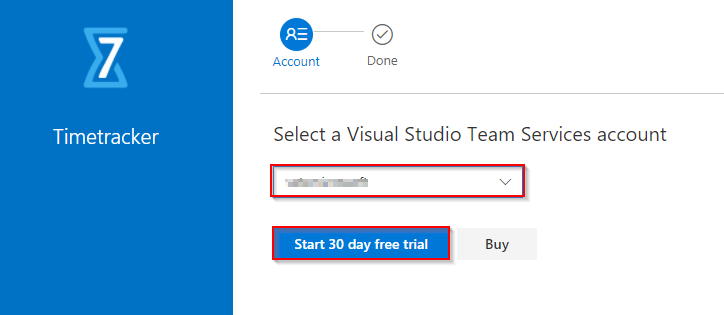
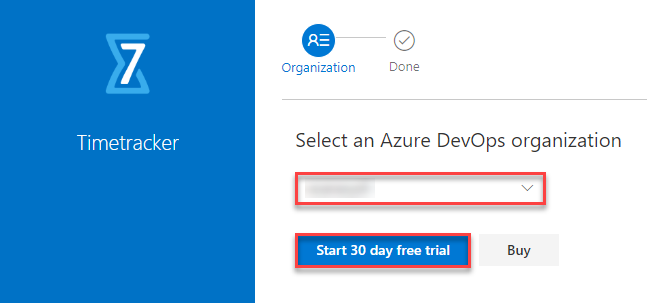
updated 7pace timetracker lab

diff --git a/labs/vstsextend/timetracker/readme.md b/labs/vstsextend/timetracker/readme.md
@@ -4,16 +4,15 @@ layout: page
 sidebar: vsts2
 permalink: /labs/vstsextend/timetracker/
 folder: /labs/vstsextend/timetracker/
-updated: blank
 ---
 ## Overview 
-**7pace Timetracker** is a professional full-feature time recording and management solution that seamlessly integrates with Visual Studio Team Services (VSTS). Designed for software engineers, by software engineers, Timetracker exists within the same environment in which you work, allowing you to quickly and easily plan, estimate, enter, and track time directly on work items, and then use the resulting data to improve your productivity. This integration between work done and time tracked lets you know exactly how much time you’re spending on your work items, leading to better estimation and more efficient time management. The entire development team can see team members' individual pace, remaining time, and decreasing burndown.
+**7pace Timetracker** is a professional full-feature time recording and management solution that seamlessly integrates with Azure DevOps. Designed for software engineers, by software engineers, Timetracker exists within the same environment in which you work, allowing you to quickly and easily plan, estimate, enter, and track time directly on work items, and then use the resulting data to improve your productivity. This integration between work done and time tracked lets you know exactly how much time you’re spending on your work items, leading to better estimation and more efficient time management. The entire development team can see team members' individual pace, remaining time, and decreasing burndown.
 
 **Timetracker** also offers an optional desktop Windows Client that can be installed on your local system. In Timetracker 4.0, time tracking moved to the server with a built-in Web Client that allows you to start tracking right from any work item. You can use multiple desktops, run the Windows Client everywhere or just open your browser; you will see a synced time interface that you can control from wherever you are.
 
 ## What’s covered in this lab
 
-In this tutorial, you will see how you can easily add time from various locations within Timetracker and VSTS and then use that time data to increase your knowledge and productivity:
+In this tutorial, you will see how you can easily add time from various locations within Timetracker and Azure DevOps and then use that time data to increase your knowledge and productivity:
 1.	How to Record Your Time on the Work Item Form (Details tab **Start Tracking** and Time tab **Add Time** buttons)
 1.	How to Record Your Time with Timetracker’s Windows and Web Clients
 1.	How to Record Your Time with Timetracker’s **Monthly**, **Timesheet** (Add **New Time** Timesheet Cells and List Editor) and **Times Explorer** Pages
@@ -21,43 +20,43 @@ In this tutorial, you will see how you can easily add time from various location
 1.	How to View the Health of Your Sprint on Timetracker’s **Iterations** Page.
 
 ## Prerequisites for the lab
-You will need a **Visual Studio Team Services Account**. If you do not have one, you can sign up for free [here](https://www.visualstudio.com/products/visual-studio-team-services-vs)
+You will need an **Azure DevOps Organization**. If you do not have one, you can sign up for free [here](https://go.microsoft.com/fwlink/?LinkId=2014881)
+
 ## Setting up the environment
 
-This section helps you with the steps to enable **7pace Timetracker** for VSTS web server on your Visual Studio Team Services account and (optional) install the Windows Client to your local system. 
+This section helps you with the steps to enable **7pace Timetracker** for your Azure DevOps Organization and (optional) install the Windows Client to your local system. 
 
-1. Login to https://www.visualstudio.com/ using your valid Microsoft Visual Studio Team Services account. 
-1. Click [here](https://marketplace.visualstudio.com/items?itemName=Berichthaus.TfsTimetracker) to navigate to the **Timetracker** extension in VSTS Marketplace. Or Search for **Timetracker** in VSTS Marketplace and click on the **Timetracker** icon.
+1. Login to your valid Azure DevOps Organization account. 
+1. Click [here](https://marketplace.visualstudio.com/items?itemName=7pace.TfsTimetracker) to navigate to the **Timetracker** extension in Azure DevOps Marketplace. Or Search for **Timetracker** in Azure DevOps Marketplace and click on the **Timetracker** icon.
 
    ![Timetrackericon](images/TimetrackerIcon.png)
 
 1. On the Timetracker application page, click **Get**.
 
-1. Select the drop-down in **Select a Visual Studio Team Services account** field and select your Team Services account, then select **Start 30 day free trial**. With this Timetracker extension will be installed to your VSTS account.
+1. Select the drop-down in **Select an Azure DevOps organization** field and select your Azure DevOps Organization, then select **Start 30 day free trial**. With this Timetracker extension will be installed to your VSTS account.
 
    ![selectvstsaccount](images/selectvstsaccount.png)
 
-1. Once the Timetracker server component is enabled on your account, ensure that the **Time** menu selection appears on the main menu bar of Team Services.
+1. Once the Timetracker server component is enabled on your account, ensure that the **Time** menu selection appears on the main menu bar of Azure DevOps Project.
 
-1. Once the above steps have been completed, you have the option of downloading the Windows Client. From the main menu bar, select **Time -> Apps**. Click the **Downloads** link on **Desktop Apps**  or at the top-right corner of the page.
+   ![timetrackerimage](images/timetrackeroption.png)
+
+1. Once the above steps have been completed, you have the option of downloading the Windows Client. Click **Yes, I agree** to accept the Privacy Terms. From the main menu bar, select **Time -> Apps**. Click the **Download client** link within **7pace Timetracker Windows client**.
 
      ![DownloadClient1](images/DownloadClient1.png)
 
-    ![DownloadClient2](images/DownloadClient2.png)
+1. (Optional) Pair the Windows Client with your Azure DevOps account by following the 7pace’s [Client Installation and Pairing Guide] guide.(https://support.7pace.com/hc/en-us/articles/115000516926-7pace-Timetracker-Client-Installation-and-Pairing-Guide).
 
-1. (Optional) Pair the Windows Client with your Team Services account by clicking the **Download** link again on the **Monthly** page of Timetracker and then selecting **Pair** or clicking on the **Pair account** link under the **Pairing** section of the **Apps** page of Timetracker. For more information, see 7pace’s [Client Installation and Pairing Guide](https://support.7pace.com/hc/en-us/articles/115000516926-7pace-Timetracker-Client-Installation-and-Pairing-Guide).
+   ![PairwithDevOps](images/pair.png)
 
 
 ## Exercise 1:How to Record Your Time on the Work Item Form (Details tab Start Tracking and Time tab Add Time buttons)
 
-7pace Timetracker is fully integrated with your VSTS account. Throughout each sub-tab of Timetracker or within your VSTS account, any time you click on a work item, the work item details popup window displays.
+7pace Timetracker is fully integrated with your Azure DevOps Project. Throughout each sub-tab of Timetracker or within your Azure DevOps Project, any time you click on a work item, the work item details popup window displays.
 
-1. Open any work item on your VSTS sprint board.
+1. Open any work item on your Azure DevOps Project sprint board.
 
-
-   ![OpenWorkitem](images/OpenWorkitem.png)
-
- 
+   ![OpenWorkitem](images/OpenWorkitem.png) 
 
 1. Under the **Details** tab, you will find a new section **Work**. Under that section, you will find the **Start Tracking** button.
 
